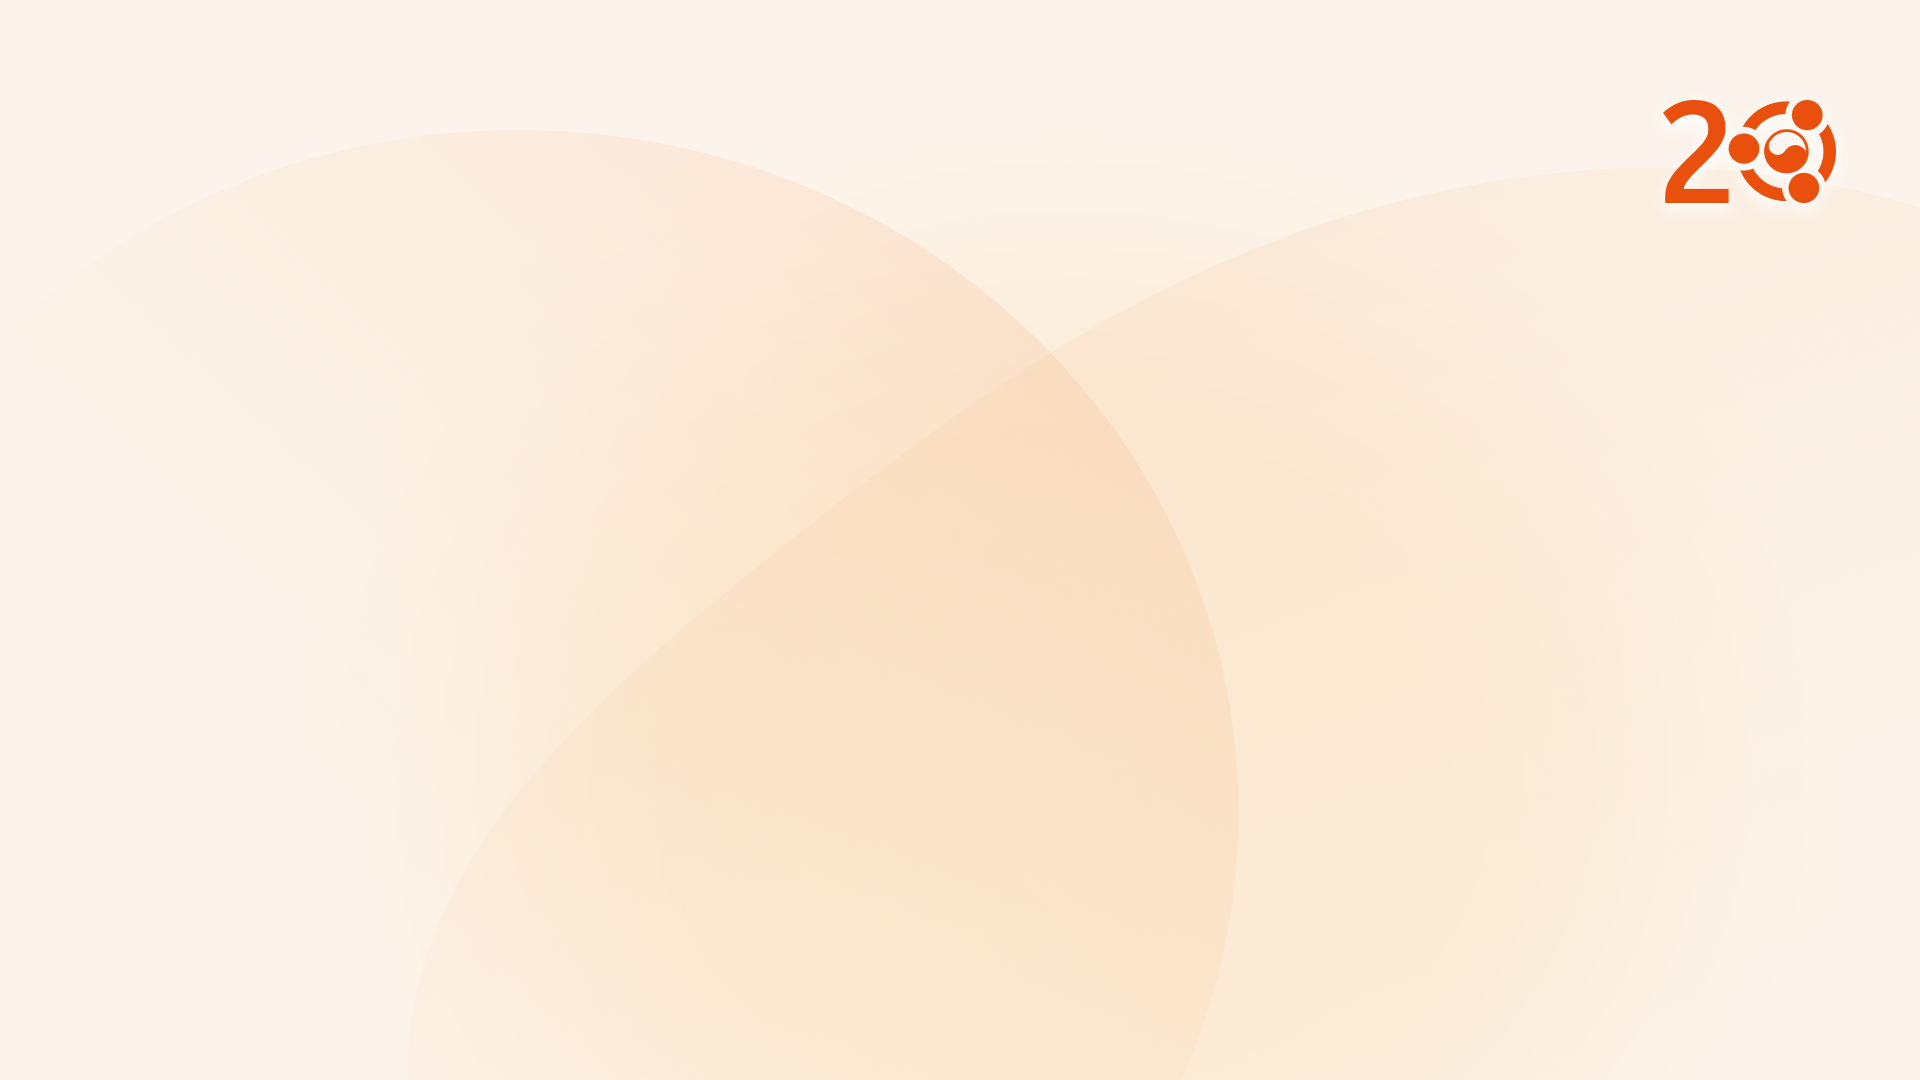
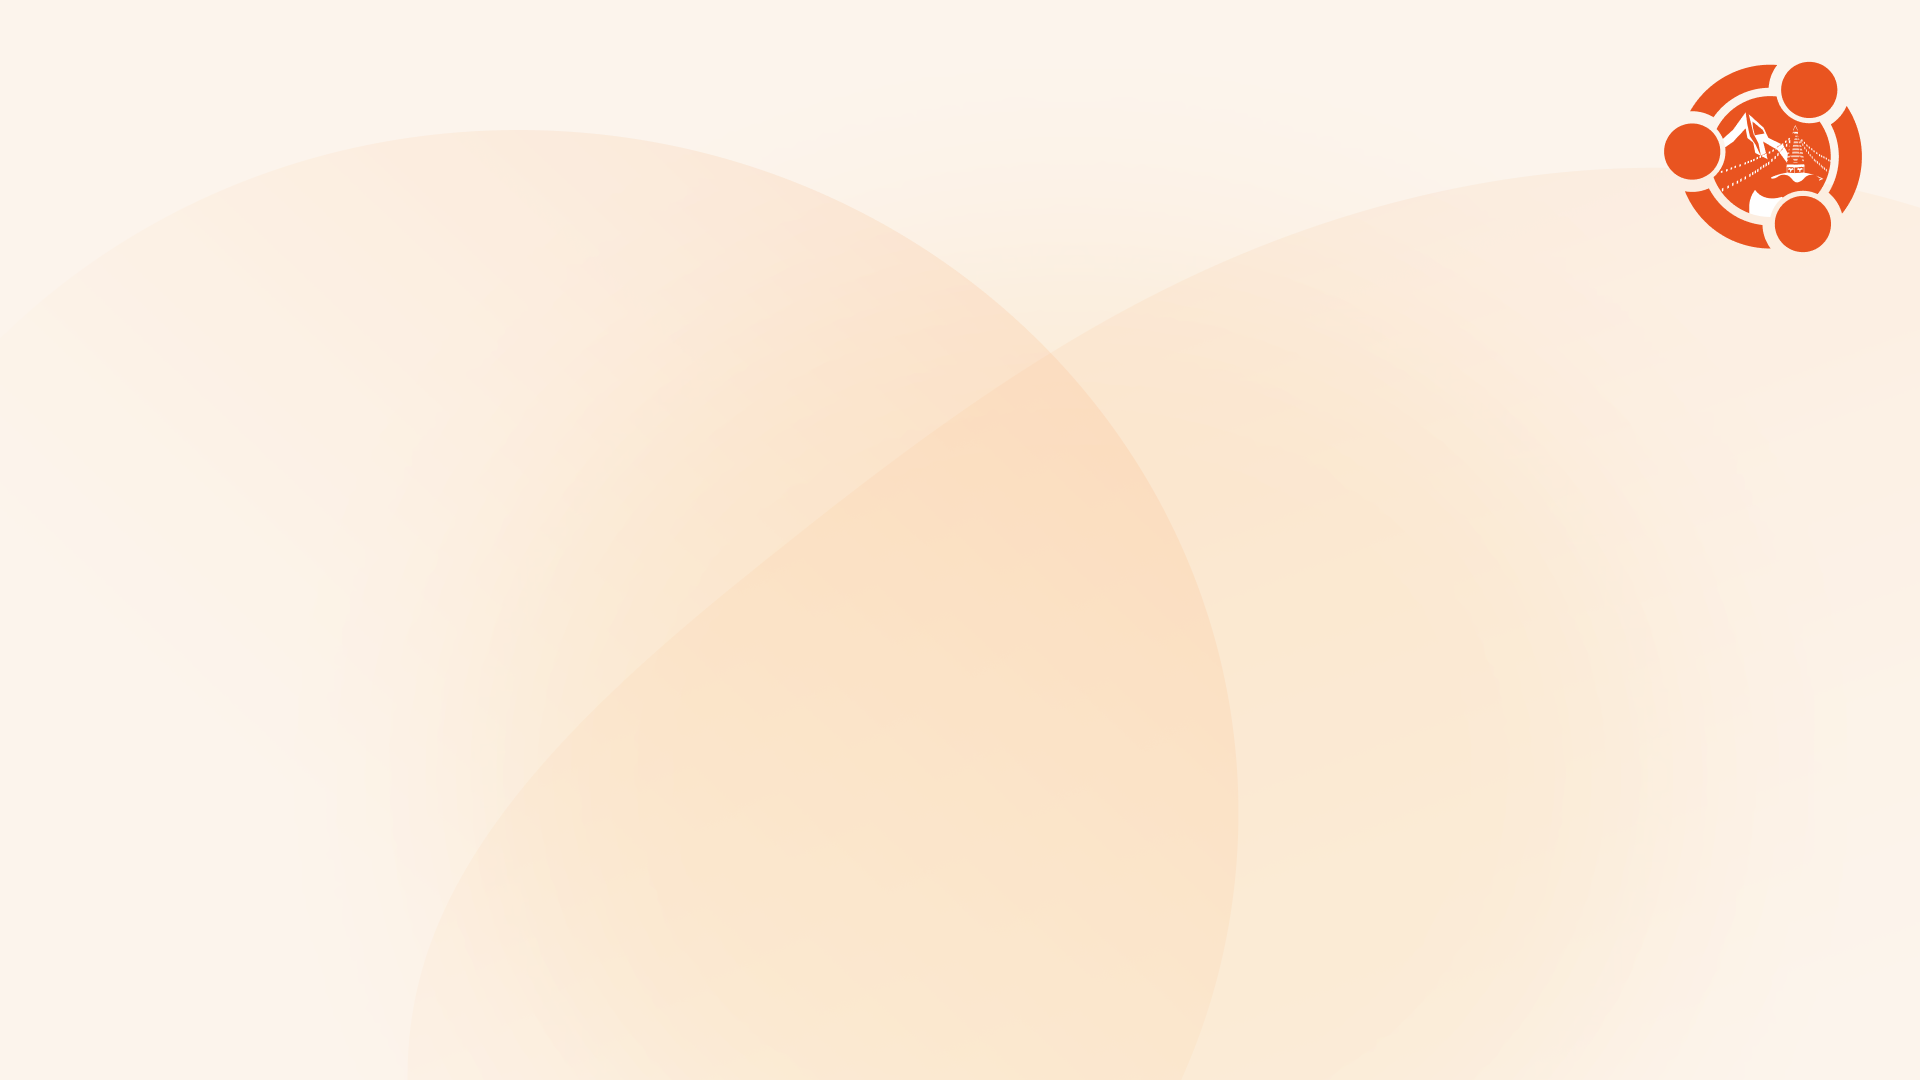
add frame image and background image

Changed region(s): [[0.8438, 0.0611, 0.9688, 0.2444]]

diff --git a/lib/pages/homePage.dart b/lib/pages/homePage.dart
@@ -1,11 +1,6 @@
 import 'package:flutter/material.dart';
 import 'package:get/get.dart';
 
-const List<Widget> icons = <Widget>[
-  Icon(Icons.square_rounded),
-  Icon(Icons.window),
-];
-
 class HomePage extends StatefulWidget {
   const HomePage({Key? key}) : super(key: key);
 
@@ -15,6 +10,12 @@ class HomePage extends StatefulWidget {
 
 class _HomePageState extends State<HomePage> {
   int _selectedType = 1;
+
+  void _selectPhotoType(int type) {
+    setState(() {
+      _selectedType = type;
+    });
+  }
 
   @override
   Widget build(BuildContext context) {
@@ -32,39 +33,158 @@ class _HomePageState extends State<HomePage> {
               mainAxisAlignment: MainAxisAlignment.center,
               children: <Widget>[
                 Text(
-                  'select type:',
-                  style: Theme.of(context).textTheme.titleMedium,
+                  'Select Photo Option',
+                  style: Theme.of(context).textTheme.titleLarge?.copyWith(
+                    fontWeight: FontWeight.bold,
+                    color: Colors.white,
+                    shadows: [
+                      Shadow(
+                        offset: Offset(2, 2),
+                        blurRadius: 4,
+                        color: Colors.black.withOpacity(0.5),
+                      ),
+                    ],
+                  ),
                 ),
-                const SizedBox(height: 5),
-                ToggleButtons(
-                  direction: Axis.horizontal,
-                  onPressed: (int index) {
-                    setState(() {
-                      _selectedType = index == 0 ? 1 : 4;
-                    });
-                  },
-                  borderRadius: const BorderRadius.all(Radius.circular(8)),
-                  selectedBorderColor: Colors.orange[700]!,
-                  selectedColor: Colors.white,
-                  fillColor: Colors.orange[200]!,
-                  color: Colors.orange[400]!,
-                  isSelected:
-                      _selectedType == 1 ? [true, false] : [false, true],
-                  children: icons,
+                const SizedBox(height: 40),
+                Row(
+                  mainAxisAlignment: MainAxisAlignment.spaceEvenly,
+                  children: [
+                    _buildPhotoOptionCard(
+                      icon: Icons.square_rounded,
+                      title: 'Single Photo',
+                      subtitle: 'Take one photo',
+                      isSelected: _selectedType == 1,
+                      onTap: () => _selectPhotoType(1),
+                    ),
+                    _buildPhotoOptionCard(
+                      icon: Icons.window,
+                      title: '4-Cut Photo',
+                      subtitle: 'Take 4 different poses',
+                      isSelected: _selectedType == 4,
+                      onTap: () => _selectPhotoType(4),
+                    ),
+                  ],
                 ),
-                Padding(
-                  padding: const EdgeInsets.all(16.0),
+                const SizedBox(height: 40),
+                Container(
+                  width: 280,
+                  height: 60,
                   child: ElevatedButton(
                     onPressed: () {
-                      Get.toNamed('/take-picture-page',
-                          arguments: _selectedType);
+                      Get.toNamed('/take-picture-page', arguments: _selectedType);
                     },
-                    child: const Text('Go to Take Picture Page'),
+                    style: ElevatedButton.styleFrom(
+                      backgroundColor: Colors.orange[600],
+                      foregroundColor: Colors.white,
+                      elevation: 8,
+                      shadowColor: Colors.black.withOpacity(0.3),
+                      shape: RoundedRectangleBorder(
+                        borderRadius: BorderRadius.circular(30),
+                      ),
+                    ),
+                    child: Row(
+                      mainAxisAlignment: MainAxisAlignment.center,
+                      children: [
+                        Icon(Icons.camera_alt, size: 28),
+                        SizedBox(width: 12),
+                        Text(
+                          'Start Taking Photos',
+                          style: TextStyle(
+                            fontSize: 18,
+                            fontWeight: FontWeight.bold,
+                          ),
+                        ),
+                      ],
+                    ),
                   ),
                 ),
               ],
             ),
           ),
+        ),
+      ),
+    );
+  }
+
+  Widget _buildPhotoOptionCard({
+    required IconData icon,
+    required String title,
+    required String subtitle,
+    required bool isSelected,
+    required VoidCallback onTap,
+  }) {
+    return GestureDetector(
+      onTap: onTap,
+      child: AnimatedContainer(
+        duration: Duration(milliseconds: 200),
+        width: 160,
+        height: 180,
+        decoration: BoxDecoration(
+          color: isSelected ? Colors.orange[100] : Colors.white.withOpacity(0.9),
+          borderRadius: BorderRadius.circular(20),
+          border: Border.all(
+            color: isSelected ? Colors.orange[600]! : Colors.grey[300]!,
+            width: isSelected ? 3 : 1,
+          ),
+          boxShadow: [
+            BoxShadow(
+              color: isSelected 
+                ? Colors.orange.withOpacity(0.3)
+                : Colors.black.withOpacity(0.1),
+              blurRadius: isSelected ? 12 : 6,
+              offset: Offset(0, 4),
+            ),
+          ],
+        ),
+        child: Column(
+          mainAxisAlignment: MainAxisAlignment.center,
+          children: [
+            Icon(
+              icon,
+              size: 48,
+              color: isSelected ? Colors.orange[600] : Colors.grey[600],
+            ),
+            SizedBox(height: 16),
+            Text(
+              title,
+              style: TextStyle(
+                fontSize: 18,
+                fontWeight: FontWeight.bold,
+                color: isSelected ? Colors.orange[700] : Colors.grey[700],
+              ),
+            ),
+            SizedBox(height: 8),
+            Padding(
+              padding: EdgeInsets.symmetric(horizontal: 12),
+              child: Text(
+                subtitle,
+                textAlign: TextAlign.center,
+                style: TextStyle(
+                  fontSize: 12,
+                  color: isSelected ? Colors.orange[600] : Colors.grey[500],
+                ),
+              ),
+            ),
+            if (isSelected) ...[
+              SizedBox(height: 8),
+              Container(
+                padding: EdgeInsets.symmetric(horizontal: 12, vertical: 4),
+                decoration: BoxDecoration(
+                  color: Colors.orange[600],
+                  borderRadius: BorderRadius.circular(12),
+                ),
+                child: Text(
+                  'Selected',
+                  style: TextStyle(
+                    color: Colors.white,
+                    fontSize: 10,
+                    fontWeight: FontWeight.bold,
+                  ),
+                ),
+              ),
+            ],
+          ],
         ),
       ),
     );

diff --git a/lib/pages/printPage.dart b/lib/pages/printPage.dart
@@ -2,9 +2,6 @@ import 'dart:typed_data';
 import 'dart:ui' as ui;
 import 'package:flutter/material.dart';
 import 'package:flutter/services.dart';
-import 'package:path_provider/path_provider.dart';
-import 'dart:io';
-import 'dart:math';
 
 import 'package:http/http.dart' as http;
 import 'package:get/get.dart';
@@ -80,7 +77,7 @@ class _PrintPageState extends State<PrintPage> {
                 padding: const EdgeInsets.all(16.0),
                 child: ElevatedButton(
                   onPressed: () {
-                    _saveCombinedImage();
+                    _printCombinedImage();
                   },
                   child: const Text('Print the picture'),
                 ),
@@ -101,45 +98,26 @@ class _PrintPageState extends State<PrintPage> {
     );
   }
 
-  void _sendFilePath(String filePath) async {
+  void _sendImageData(ByteData imageData) async {
     final url = Uri.parse('http://localhost:5000/print');
     final response = await http.post(
       url,
-      body: {'filePath': filePath},
+      headers: {'Content-Type': 'application/octet-stream'},
+      body: imageData.buffer.asUint8List(),
     );
 
     if (response.statusCode == 200) {
-      print('File path sent successfully');
+      print('Image data sent successfully');
     } else {
-      print('Failed to send file path. Error ${response.statusCode}');
+      print('Failed to send image data. Error ${response.statusCode}');
     }
   }
 
-  void _saveCombinedImage() async {
+  void _printCombinedImage() async {
     if (_combinedImageData == null) return;
 
-    String fileName = _generateRandomName();
-    await _saveImage(_combinedImageData!, '$fileName.png');
-
-    final Directory directory = await getApplicationDocumentsDirectory();
-    final String filePath = '${directory.path}/$fileName.png';
-
-    print('Image saved at: $filePath');
-    _sendFilePath(filePath);
+    print('Sending image data directly to printer');
+    _sendImageData(_combinedImageData!);
   }
 
-  Future<void> _saveImage(ByteData image, String fileName) async {
-    final Directory directory = await getApplicationDocumentsDirectory();
-    final String filePath = '${directory.path}/$fileName';
-    final List<int> buffer = image.buffer.asUint8List();
-    await File(filePath).writeAsBytes(buffer, flush: true);
-  }
-
-  String _generateRandomName() {
-    const chars = 'abcdefghijklmnopqrstuvwxyz0123456789';
-    const length = 10;
-    Random random = Random();
-    return List.generate(length, (index) => chars[random.nextInt(chars.length)])
-        .join();
-  }
 }